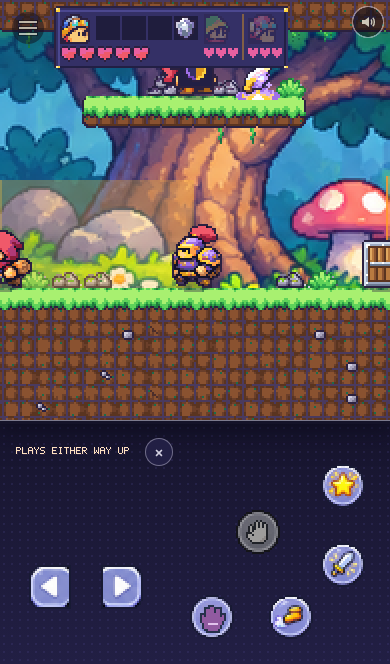
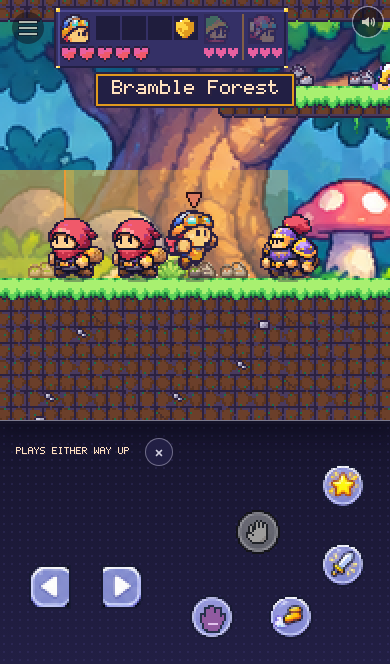
Step 15 push 4c: the forest's earth darker and cooler, the boulder a mossy stone, the shots retaken (deep pocket outside the end box, canopy upright from below)
Why: the orchestrator's look at the forest shots (docs/plan/step-15.md, ~14:45 UTC),
sent by the lead at 14:40 UTC: the earth still read warm mid-brown, the
deep-pocket shots showed only STAGE CLEARED, the canopy's hero sat behind the
party plate upright, and the boulder was a grey box.

- tools/art/tiles/forest.py: LOAM one step down and cooler; CAVE re-keyed.
- tools/art/tiles/forest_boulder.py (new): the boulder's sheet cut from P10
  TRN-02's large round rock with a moss cap; content/sprites/forest-boulder.json.
- docs/plan/step-15-shots/: all 30 retaken; deep-pocket at column 27 (outside
  the end box); canopy-390x664 from the trail below. Upright, the camera stops
  at the room's top and the plate covers rows 0-2, so a hero on the canopy is
  always under it (noted for the lead, not fixed).

Ran: npm run build 0, npm run check ok. Looked at the boulder, trail-gap,
deep-pocket and canopy shots. Not run: npm run e2e (no client or network
change). Measure rows: none moved. Undo: revert the commit.

Claude-Session: https://claude.ai/code/session_017WiGzGVGmfNTRtDB8nX3Np

diff --git a/tools/art/tiles/forest_boulder.py b/tools/art/tiles/forest_boulder.py
@@ -1,0 +1,89 @@
+"""The forest's boulder (Step 15 push 4c): assets/sprites/cast/forest-boulder.png.
+
+    python3 -I tools/art/tiles/forest_boulder.py
+
+DRAFT: cut from the owner's approved P10 TRN-02 row (stone walls, rocks, stairs): its large round
+rock (source x 1295-1358, y 39-91 of row-crops/trn-02-stone-walls-rocks-stairs.png, read from git's
+object store when the blob-limited checkout leaves it out), downsampled at ~2.45 source px per art
+pixel to 26 x 22 by the median of each block (forest.py's resample), mapped to the master palette's
+stone ramp, with a cap of moss (foliage) over its top three rows so it reads as a forest stone.
+Same layout as the crates' sheets (8 x 3 cells of 32 px): idle 0; air 8-11 (the stone turned a
+quarter each frame); hurt 16-17 (the same stone). Same bytes every run.
+"""
+import os
+import subprocess
+import sys
+import tempfile
+
+sys.dont_write_bytecode = True
+sys.path.insert(0, os.path.dirname(os.path.abspath(__file__)))
+from PIL import Image  # noqa: E402
+
+import plates as PL  # noqa: E402
+from common import ASSETS, C, CLEAR, ROOT  # noqa: E402
+from forest import resample  # noqa: E402
+
+REPO = ('docs/design-library/03-visual-direction-and-assets/current-pixel-art-explorations/'
+        'p10-owner-selected-tagged-terrain-and-interactables/row-crops/trn-02-stone-walls-rocks-stairs.png')
+SRC = os.path.join(ROOT, REPO)
+if not os.path.exists(SRC):
+    blob = subprocess.run(['git', '-C', ROOT, 'show', 'HEAD:' + REPO], capture_output=True).stdout
+    SRC = os.path.join(tempfile.mkdtemp(), 'trn-02.png')
+    open(SRC, 'wb').write(blob)
+
+ST, INK, MOSS = C['stone'], C['ink'], C['foliage']
+# DRAFT: measured TRN-02 rock tones (light face, body, shade, outline) and the master colour each becomes.
+PAIRS = [((236, 232, 246), ST[3]), ((205, 199, 236), ST[3]), ((176, 169, 219), ST[2]), ((150, 142, 205), ST[1]),
+         ((122, 115, 192), ST[1]), ((95, 86, 160), ST[0]), ((70, 60, 120), INK[1]), ((45, 35, 85), INK[0])]
+rock_map = PL.pairs_map(PAIRS)
+BOX = (1295, 39, 1359, 92)
+SIZE = (26, 22)
+
+
+def stone():
+    img = resample(Image.open(SRC).convert('RGBA'), *BOX, *SIZE, rock_map)
+    # The rock's brightest highlights read as the plate's white matte: fill each row's holes
+    # between its outline with the lightest stone (as forest.py fills the mushroom cap's spots).
+    for y in range(img.height):
+        xs = [x for x in range(img.width) if img.getpixel((x, y))[3]]
+        for x in range(xs[0], xs[-1] + 1) if xs else ():
+            if not img.getpixel((x, y))[3]:
+                img.putpixel((x, y), ST[3])
+    # Moss: a cap over the top of the stone. In each column the first opaque pixel stays outline
+    # (ink), the next three to four (fewer toward the sides, none below 40% of the height) become
+    # foliage, light at the top; a position hash leaves a ragged lower edge.
+    for x in range(img.width):
+        ys = [y for y in range(img.height) if img.getpixel((x, y))[3]]
+        if not ys:
+            continue
+        top = ys[0]
+        img.putpixel((x, top), INK[0])
+        edge = min(x, img.width - 1 - x)
+        depth = (1 if edge < 3 else 3 if edge < 7 else 4) + (x * 7 + 1) % 3 // 2
+        for k in range(1, depth + 1):
+            y = top + k
+            if y >= img.height * 0.45 or not img.getpixel((x, y))[3]:
+                break
+            img.putpixel((x, y), MOSS[3] if k == 1 else MOSS[2] if k < depth else MOSS[1])
+    return img
+
+
+def main():
+    rock = stone()
+    sheet = Image.new('RGBA', (256, 96), CLEAR)
+    # The body box is 24 x 22 (content/characters/forest-boulder.json) at anchor (4, 10) of a 32 cell.
+    def put(img, cell):
+        cx, cy = (cell % 8) * 32, (cell // 8) * 32
+        sheet.paste(img, (cx + 16 - img.width // 2, cy + 32 - img.height), img)
+    put(rock, 0)
+    for i, deg in enumerate((0, 90, 180, 270)):
+        put(rock.rotate(-deg, expand=True), 8 + i)
+    put(rock, 16)
+    put(rock, 17)
+    path = os.path.join(ASSETS, 'sprites', 'cast', 'forest-boulder.png')
+    sheet.save(path, optimize=False)
+    print('forest_boulder.py: wrote', path)
+
+
+if __name__ == '__main__':
+    main()

diff --git a/tools/art/tiles/forest.py b/tools/art/tiles/forest.py
@@ -291,7 +291,10 @@ QUARRY_SHEET = Image.open(os.path.join(ASSETS, 'tiles', 'quarry.png')).convert('
 # dark loam (earth's lit tones become wood's and earth's shadows, the shadows go to ink), so the trail
 # no longer reads as the quarry's ground. Applied to every ground cell (rows 0-4: the block, inner
 # corners, fills, unders, deep), never to grass, rubble or ink. To undo: drop forest_earth() from main.
-LOAM = {E[3][:3]: C['wood'][1], E[2][:3]: E[0], E[1][:3]: C['wood'][0], E[0][:3]: C['ink'][1]}
+# Push 4c (the orchestrator's look at the shots: "still reads as a warm mid-brown cobble"): one more
+# step down and cooler: the lit face is earth's darkest, the body wood's darkest, the shadows the
+# cool ink ramp.
+LOAM = {E[3][:3]: E[0], E[2][:3]: C['wood'][0], E[1][:3]: C['ink'][1], E[0][:3]: C['ink'][0]}
 # DRAFT: a little moss in the loam (one fleck in about 40 earth pixels, by a position hash): the
 # forest floor is damp. Foliage's darkest, so it sits back.
 MOSS = C['foliage'][0]
@@ -312,8 +315,8 @@ def forest_earth(sheet):
 # cells' loam two more steps down, toward night, so a hollow reads as dark earth behind, not as the
 # sky. Placed as `far` decor over each pocket (content/decor/forest-trail.json, written by
 # tools/art/tiles/forest_decor.py), in the indoor back-wall slots [0..3, 6] the forest does not use.
-CAVE = {C['wood'][1][:3]: C['night'][3], E[0][:3]: C['night'][2], C['wood'][0][:3]: C['night'][1],
-        C['ink'][1][:3]: C['night'][0], C['ink'][0][:3]: C['night'][0], MOSS[:3]: C['night'][2]}
+CAVE = {E[0][:3]: C['night'][3], C['wood'][0][:3]: C['night'][2], C['ink'][1][:3]: C['night'][1],
+        C['ink'][0][:3]: C['night'][0], MOSS[:3]: C['night'][2]}
 
 
 def cave_back(sheet):

diff --git a/docs/plan/step-15.md b/docs/plan/step-15.md
@@ -341,6 +341,9 @@ Landed: 4323a15 (the first push of it, 13499e1, never went live: see `docs/proce
 - **Push 5 not built, measured why (for the lead):** an unseen clear needs more than a way past the lookout. Every bad guy on the upper trail faces west for good (`content/placements/forest-trail.json`: fighters at 41 and 43, the heavy at 49, the brute at 62, each `face left, wait 5`; sight 112 px across, 40 px up or down, `content/tuning.json`), and the stage's only way to its end is east along that trail to the shaft (94-98). A guard on your own level who never turns cannot be passed unseen without something solid between you or more than 40 px of height (`src/sim/npc/sight.ts`). The quiet stretch that exists: the crawl and the root tunnel are out of every sight (the mound blocks the thrower); the tunnel's hatch up (36-37) comes out 5 tiles in front of the fighter at 41. Options, each a change to push 3's trail, for the lead to choose: (a) a line of one-way boughs at row 5 from the hatch east over the fighters, the heavy, the brute and the lookout to the shaft (16 px under the canopy's slab at 46-52, so only the infiltrator fits under it: the small one's high way), plus a 2-tile root stump at column 39 so the climb out of the hatch is hidden; this changes the trail's main walk, so the recorded crossings and clears (`mk_cross.py`, `step15-cleared`, the star times) need re-recording; (b) give the trail's guards a turn in their routine and add one bough or stump per guard; (c) accept that the forest is the fight stage and the quarry the stealth one. My lean: (a), recorded with a copy of `scripts/stage-quiet.ts` set to the forest's rooms (it is the quarry's, hard-coded).
 - **Still owed:** the boulder is a grey box (no mossy-stone cut chosen); the cave back is night-blue loam, a first guess (taste); `docs/mechanisms/stages.md` already notes two stages.
 
+- **Push 4c (the orchestrator's look at the shots, the lead's 14:40 UTC message):** the loam one step darker and cooler (`LOAM` in `tools/art/tiles/forest.py`); the boulder drawn as a mossy stone cut from P10 TRN-02's large round rock (`tools/art/tiles/forest_boulder.py`, `content/sprites/forest-boulder.json`); every shot retaken with the new earth. `deep-pocket` is now shot at column 27, outside the stage's end box (the old ones stood inside it and showed STAGE CLEARED). `canopy-390x664` is taken from the trail under the canopy (column 47): upright, the camera stops at the room's top and the party plate covers rows 0-2, so a hero on the canopy (rows 1-2) is always under the plate. That is the camera's and the HUD's question, not the forest's. The thin orange vertical lines (`trail-gap-750`, `root-tunnel-390`, `boulder-844`) are sight-band edges: the thrower's band ends 208 px west of him and the lookout's 112 px west of him, and those edges fall where the lines are.
+- **Stopped after push 4c at about 250k tokens:** push 5 (the quiet way) is for the next builder, once the lead has picked an option from the push 5 finding above.
+
 ## Released to a lead, 2026-11-24 08:40 UTC (orchestrator `session_017WiGzHhT2apmWHT61rQ65G`)
 
 Why now: `docs/vision-gaps.md` (refreshed at 9dbd705) ranks row 2 first: "one level is not a world: a second region". The eight core loops of the owner's ~18:30 verdict are all built and live, and the last two full re-runs with nothing red were at 6400b44 and f434f2e. So the heading above ("nothing here is briefed") no longer holds the step back.

diff --git a/tools/art/tiles/README.md b/tools/art/tiles/README.md
@@ -292,3 +292,5 @@ worse for it.
 Kept from quarry.png: inner corners, tops, unders, the marks on the last three fills, and rows 8-15 (unused by the forest atlases); the TRN-10 crop is read from outside the repo (`FOREST_TRN10`), and without it quarry's one-way cells stay.
 
 Push 4 (the lead's look pass, 12:20 UTC): `forest.py` now takes every ground cell (rows 0-4) two tones down to a dark loam with a little moss (`forest_earth`, so the forest no longer wears the quarry's orange cobble), writes cave-back cells (the deep cells toward night) into the indoor back-wall slots `[0..3, 6]`, and writes `assets/backdrops/forest-glade.png` (the BKG-01 forest preview's start view beside its own mirror: no seam at x 320; `forest-waterfall.png` is kept). `forest_decor.py` writes `content/decor/forest-trail.json`: a `far` item of cave back on every open tile of each pocket underground (rectangles listed in it), so hollows show dark earth, not sky. Re-run both if the trail's rows change. All `DRAFT:`.
+
+Push 4c: the loam one step darker and cooler (`LOAM` in `forest.py`: lit face to earth's darkest, body to wood's darkest, shadows to ink), and `forest_boulder.py` (`python3 -I tools/art/tiles/forest_boulder.py`) cuts the boulder's sheet `assets/sprites/cast/forest-boulder.png` from P10 TRN-02's large round rock (stone ramp, highlights filled, a moss cap), laid out as the crates' sheets. `DRAFT:`
